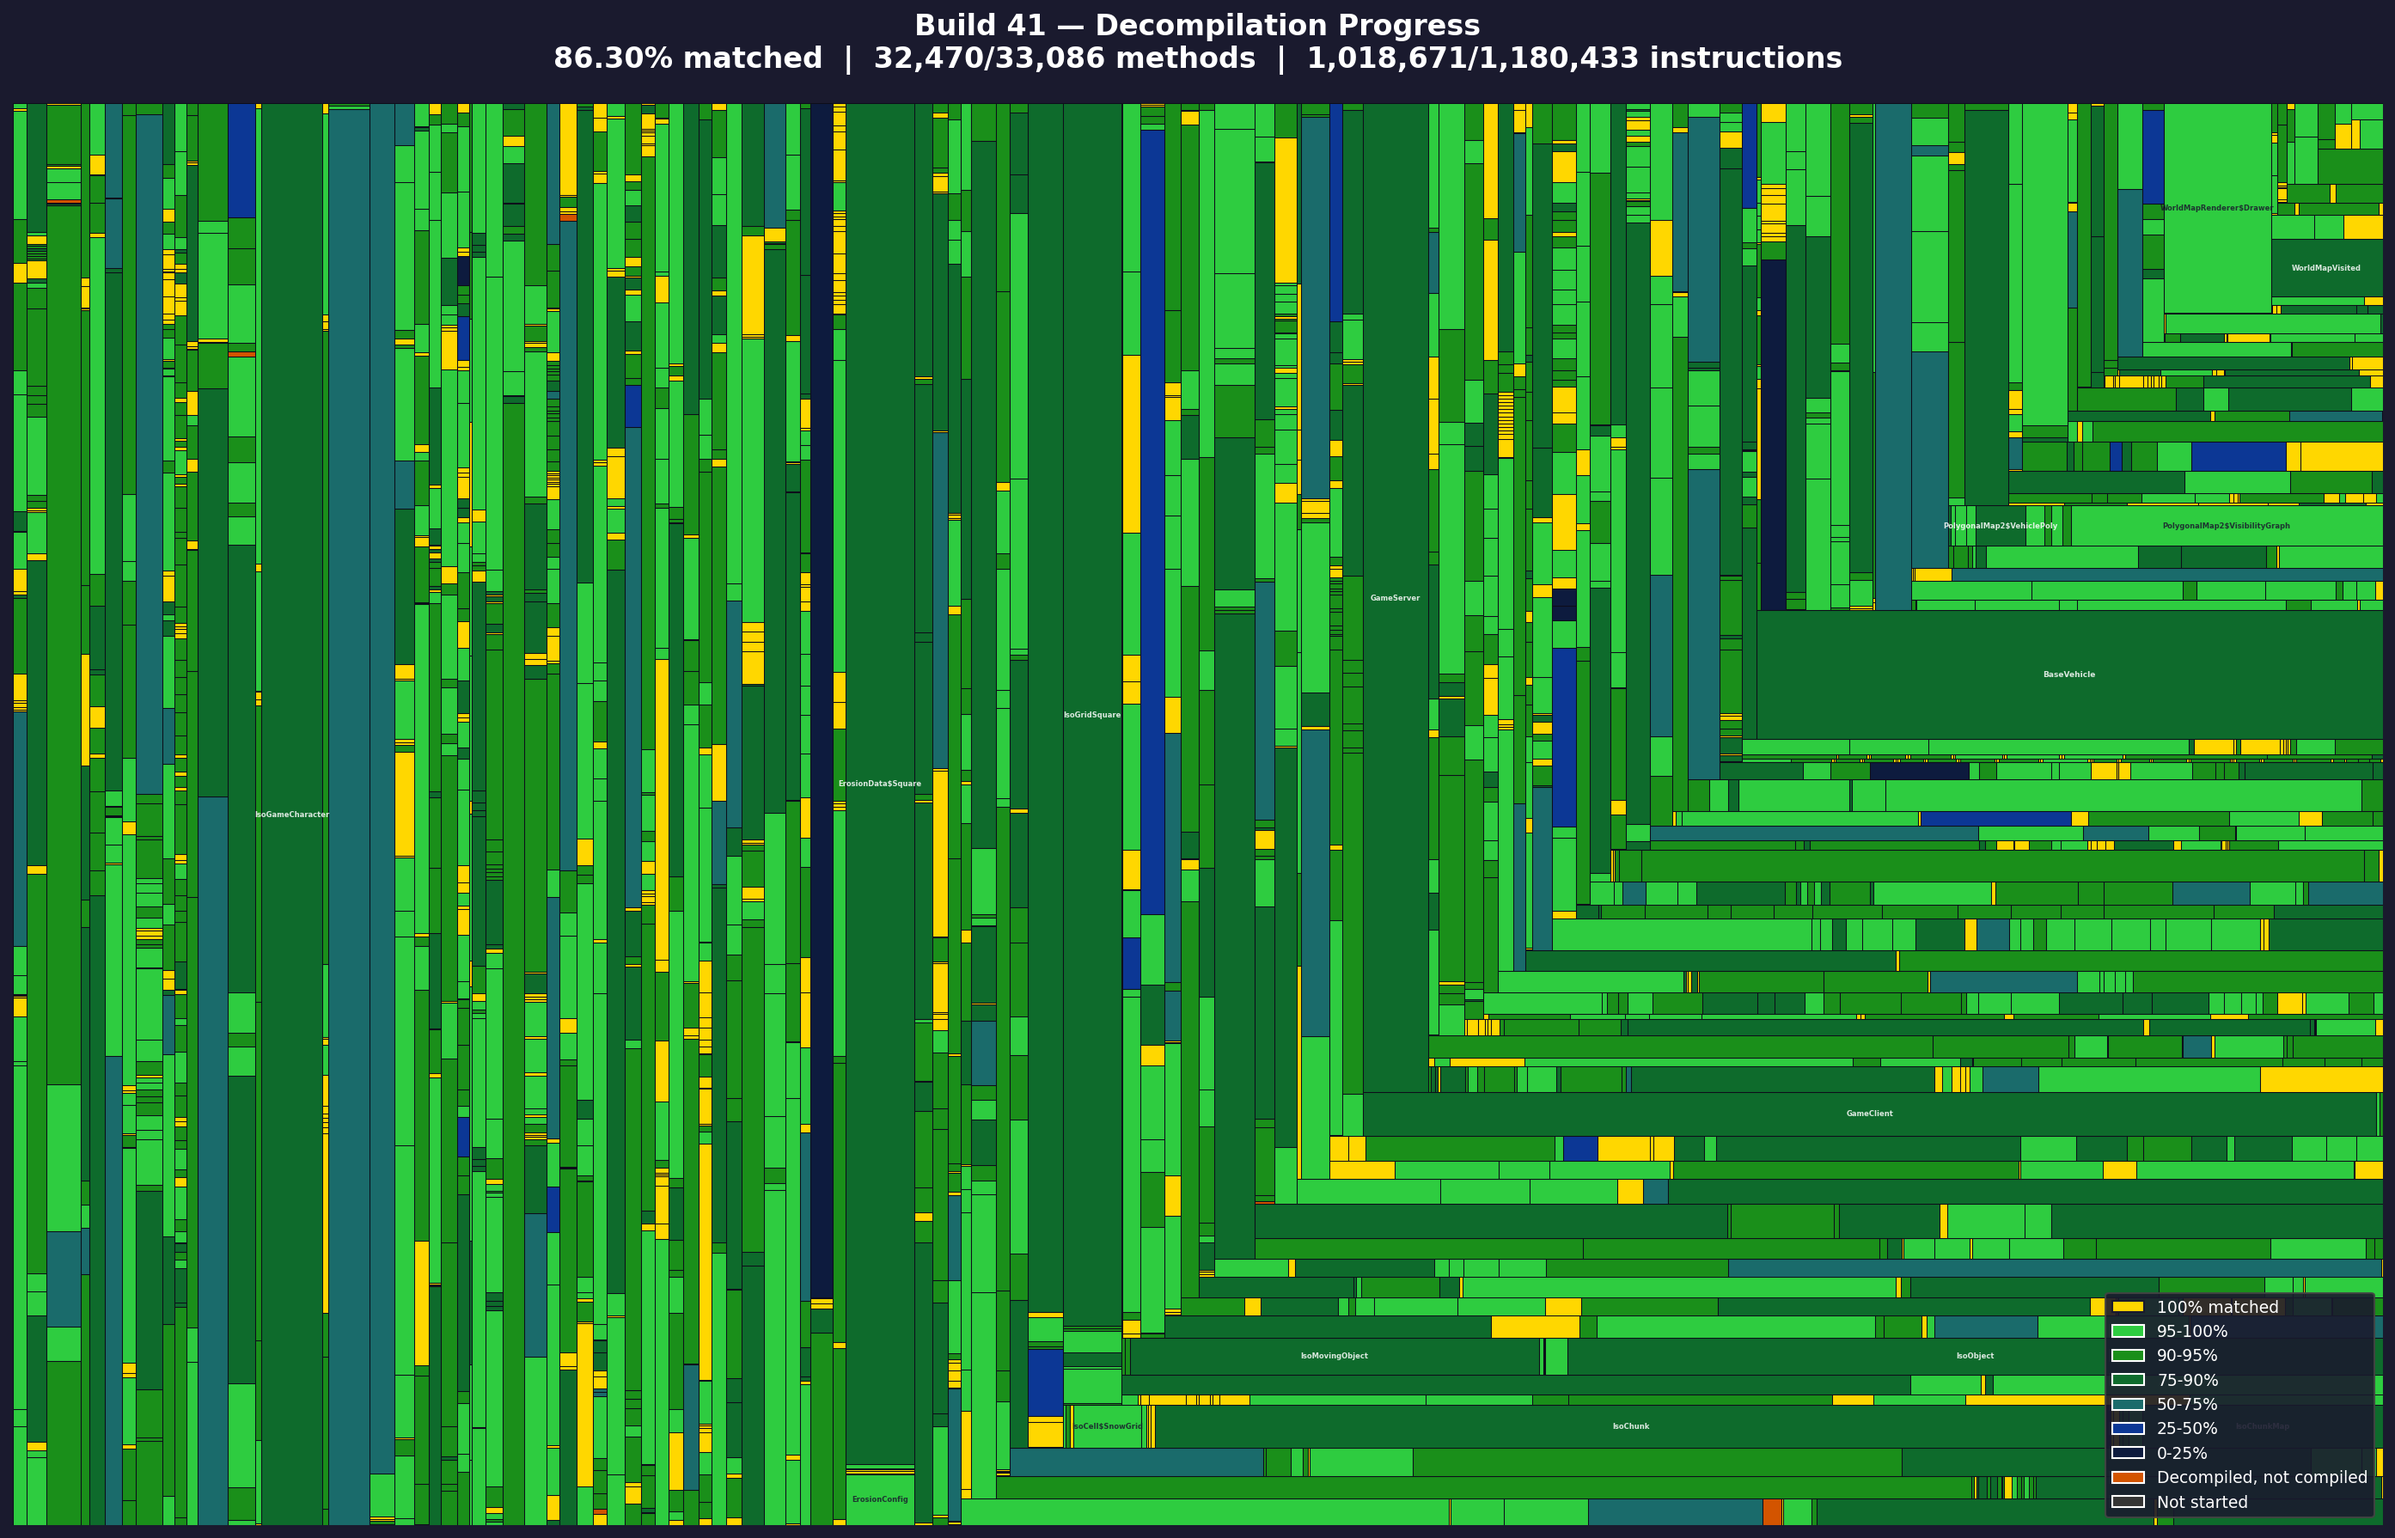
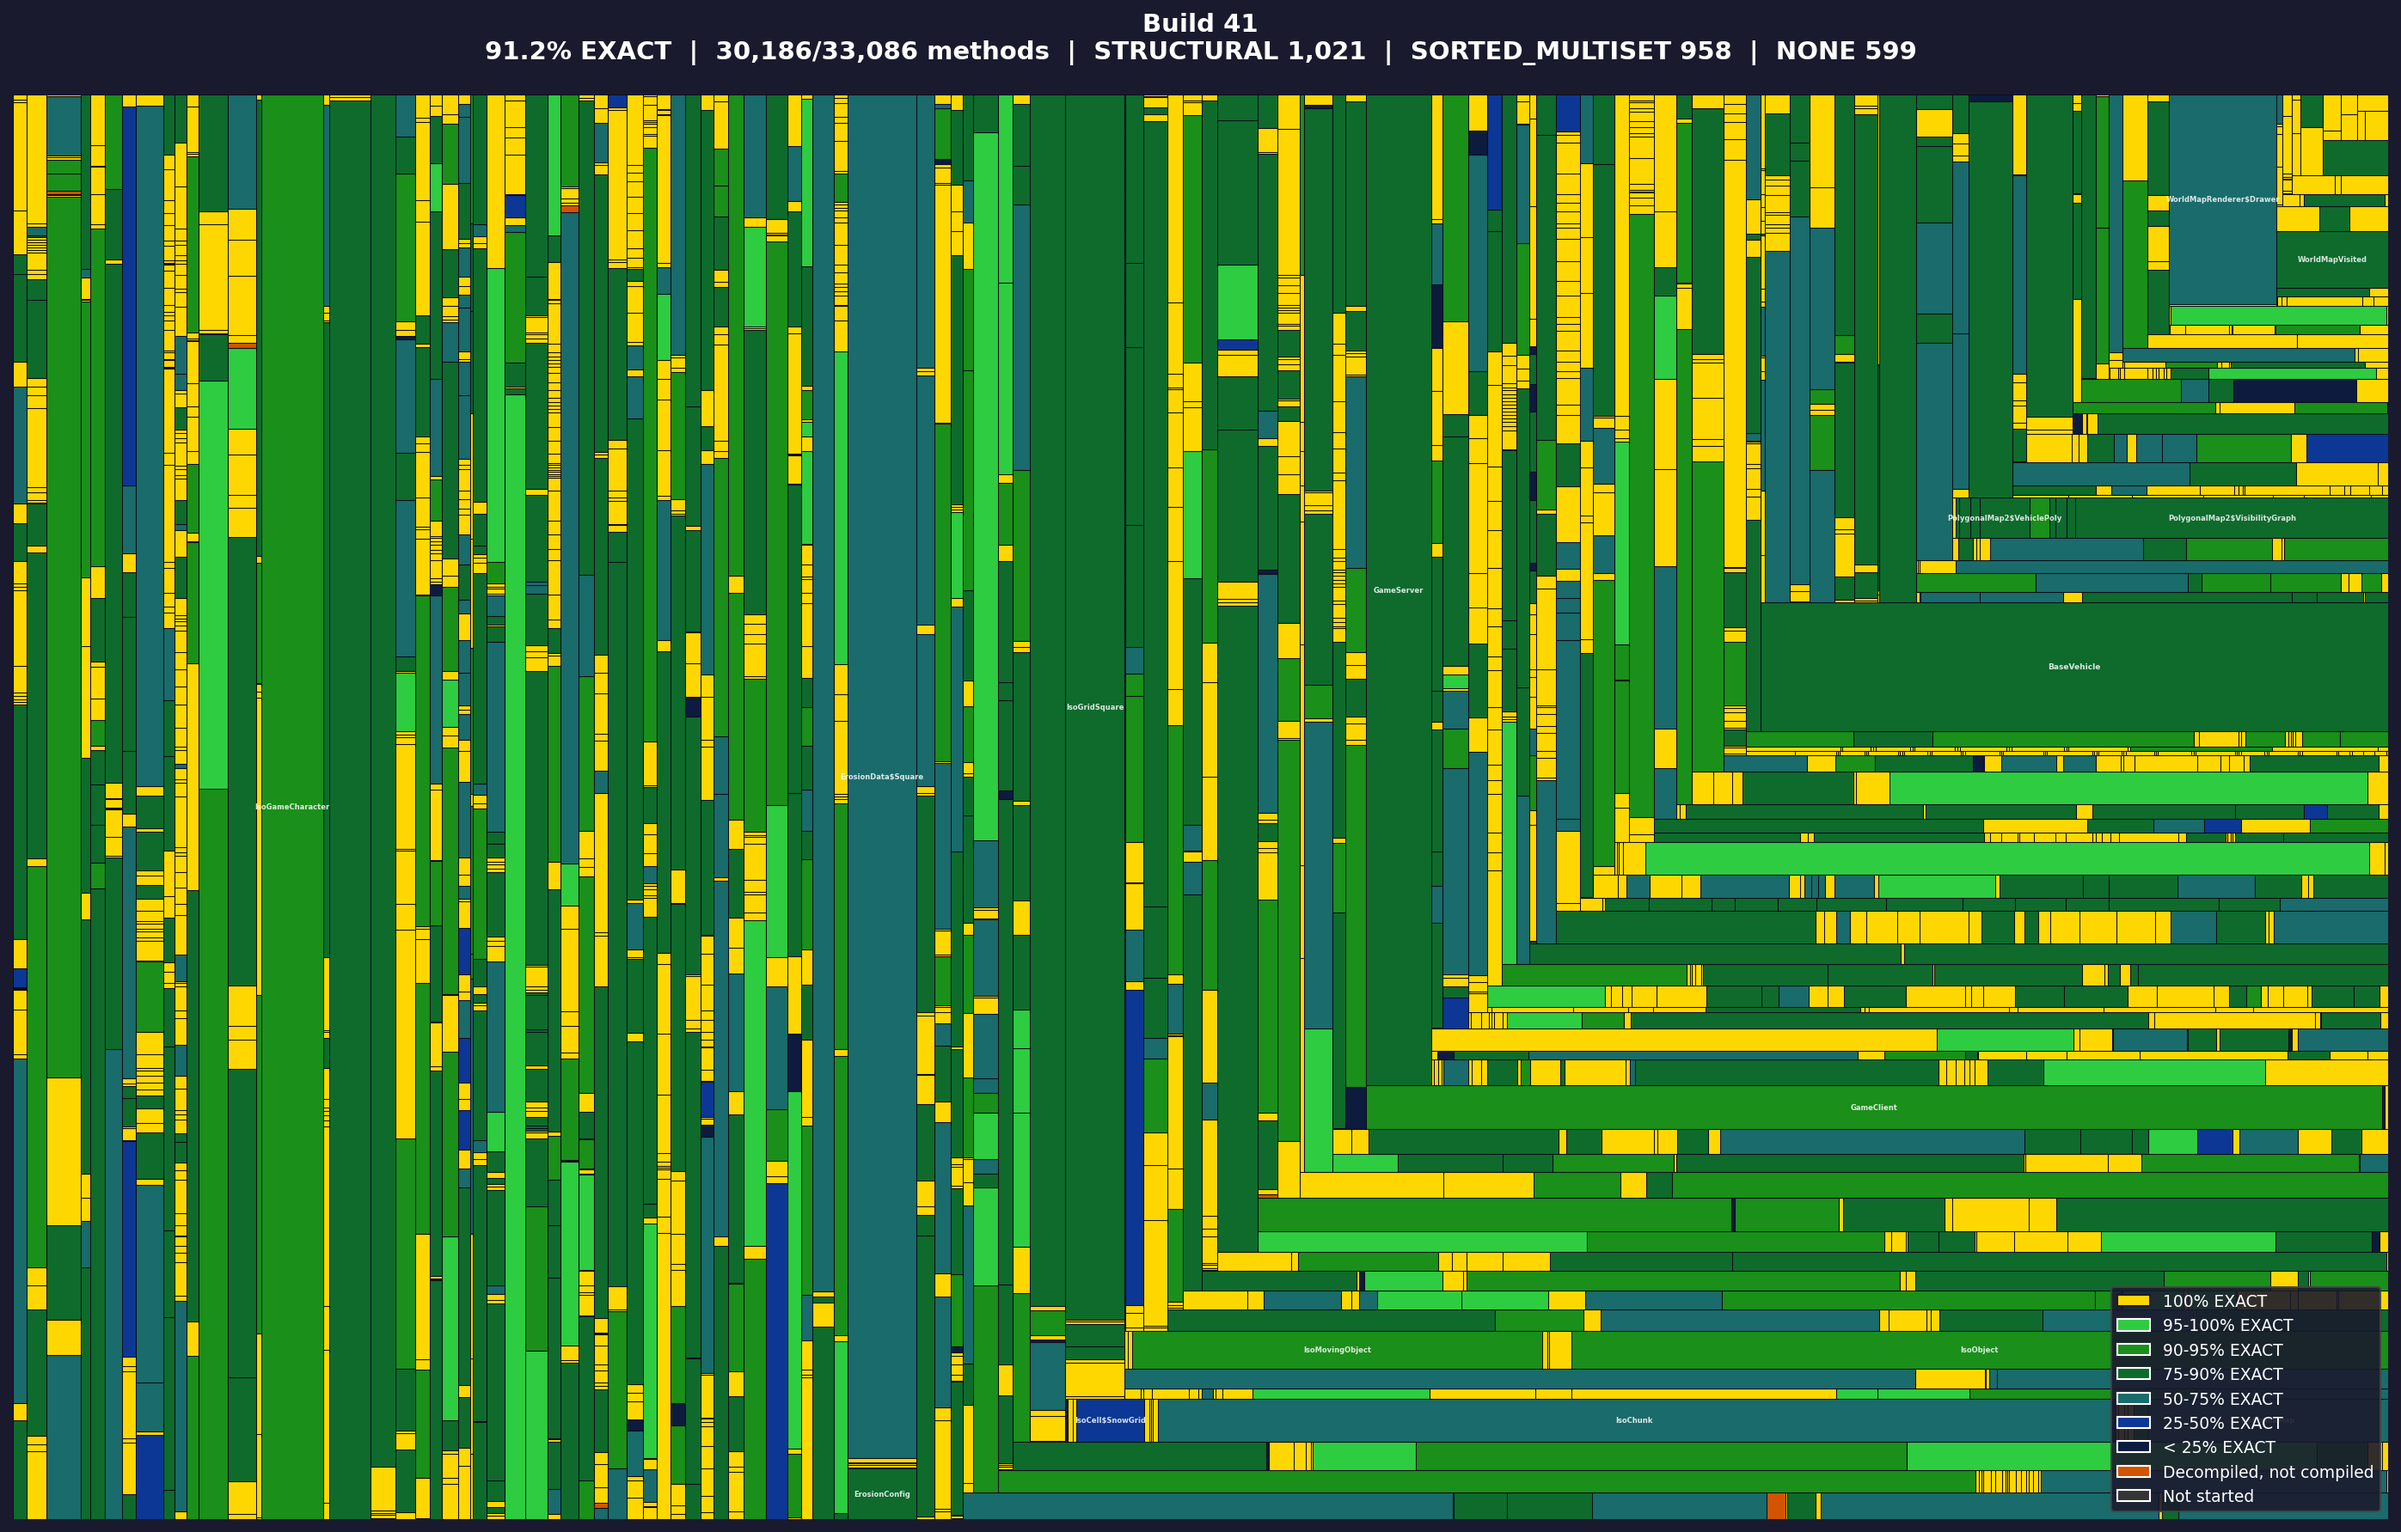
refactor: progress image shows EXACT method % instead of matched %
- Color each class by proportion of methods with EXACT bytecode match
- Legend shows EXACT tiers (100%, 95-100%, 90-95%, etc.)
- Title shows EXACT count, STRUCTURAL, SORTED_MULTISET, NONE counts
- Removes misleading "matched" percentage that could be gamed by
  relaxing comparison thresholds

diff --git a/scripts/generate_progress_image.py b/scripts/generate_progress_image.py
@@ -1,5 +1,5 @@
 #!/usr/bin/env python3
-"""Generate a decomp.dev-style treemap progress image from a verify JSON report."""
+"""Generate a treemap progress image showing EXACT method percentage per class."""
 
 import json
 import sys
@@ -12,41 +12,48 @@ import matplotlib.patches as mpatches
 import squarify
 
 
-# ── Color scheme: clear gradient from gray → red → blue → green → gold ──
-
+# Color by percentage of methods that are EXACT matches
 COLOR_TIERS = [
     # (min_pct, color,     label)
-    (100,      "#FFD700",  "100% matched"),   # gold
-    (95,       "#2ecc40",  "95-100%"),         # bright green
-    (90,       "#1a8f1a",  "90-95%"),          # medium green
-    (75,       "#0e6b2c",  "75-90%"),          # dark green
-    (50,       "#1a6b6b",  "50-75%"),          # teal
-    (25,       "#0c3795",  "25-50%"),          # dark blue
-    (0,        "#0d1b3e",  "0-25%"),            # deep navy
-    (-1,       "#353535",  "Not started"),     # gray (sentinel, never matched by pct)
+    (100,      "#FFD700",  "100% EXACT"),        # gold
+    (95,       "#2ecc40",  "95-100% EXACT"),      # bright green
+    (90,       "#1a8f1a",  "90-95% EXACT"),       # medium green
+    (75,       "#0e6b2c",  "75-90% EXACT"),       # dark green
+    (50,       "#1a6b6b",  "50-75% EXACT"),       # teal
+    (25,       "#0c3795",  "25-50% EXACT"),       # dark blue
+    (0,        "#0d1b3e",  "< 25% EXACT"),        # deep navy
+    (-1,       "#353535",  "Not started"),         # gray
 ]
 
-COLOR_NOT_COMPILED = "#D35400"  # burnt orange for "decompiled but not compiled"
+COLOR_NOT_COMPILED = "#D35400"  # burnt orange
+
+
+def get_exact_pct(unit):
+    """Calculate what percentage of a class's methods are EXACT matches."""
+    total = unit.get("total_methods", 0)
+    if total == 0:
+        return 0
+    # The methods array only contains NON-EXACT methods.
+    # EXACT count = total - len(methods array)
+    non_exact = len(unit.get("methods", []))
+    exact = total - non_exact
+    return 100.0 * exact / total
 
 
 def get_color(unit, source_dir=None):
-    """Color based on match percentage using tiered gradient."""
+    """Color based on EXACT method percentage."""
     status = unit.get("status", "")
 
-    # Class exists in original but not in recompiled output
     if status == "MISSING_RECOMP":
         if source_dir:
             name = unit.get("name", "")
-            # Inner classes share the source file of their outer class
             source_name = name.split("$")[0]
             source_file = Path(source_dir) / (source_name + ".java")
             if not source_file.exists():
-                return "#353535"  # no source, genuinely not started
+                return "#353535"
         return COLOR_NOT_COMPILED
 
-    pct = unit.get("matched_code_percent", 0)
-    if pct is None:
-        pct = 0
+    pct = get_exact_pct(unit)
 
     for min_pct, color, _ in COLOR_TIERS:
         if pct >= min_pct:
@@ -70,6 +77,19 @@ def main():
     measures = report["measures"]
     units = report["units"]
 
+    # Calculate global tier counts
+    total_methods = 0
+    exact_methods = 0
+    tier_counts = {}
+    for unit in units:
+        tm = unit.get("total_methods", 0)
+        total_methods += tm
+        methods = unit.get("methods", [])
+        exact_methods += tm - len(methods)
+        for m in methods:
+            tier = m.get("matchTier", "NONE")
+            tier_counts[tier] = tier_counts.get(tier, 0) + 1
+
     # Prepare data for treemap
     sizes = []
     labels = []
@@ -80,7 +100,6 @@ def main():
         if total_insns == 0:
             continue
         name = unit["name"]
-        # Use short class name for display, strip package prefix
         short_name = name.rsplit("/", 1)[-1] if "/" in name else name
         sizes.append(total_insns)
         labels.append(short_name)
@@ -90,12 +109,10 @@ def main():
         print("No units with instructions found!")
         return
 
-    # Create figure
     fig, ax = plt.subplots(1, 1, figsize=(20, 12))
     fig.patch.set_facecolor("#1a1a2e")
     ax.set_facecolor("#1a1a2e")
 
-    # Normalize sizes for squarify
     normed = squarify.normalize_sizes(sizes, 100, 60)
     rects = squarify.squarify(normed, 0, 0, 100, 60)
 
@@ -107,10 +124,8 @@ def main():
             edgecolor="#0d0d1a",
             linewidth=0.5,
         ))
-        # Only label large enough rectangles
         if dx > 2 and dy > 1.5:
             fontsize = min(8, max(4, min(dx, dy) * 0.8))
-            # Use black text on gold/bright colors, white on dark
             text_color = "#1a1a2e" if color in ("#FFD700", "#2ecc40") else "white"
             ax.text(
                 x + dx / 2, y + dy / 2,
@@ -127,52 +142,26 @@ def main():
     ax.set_aspect("equal")
     ax.axis("off")
 
-    # Title with stats
-    matched_code_pct = measures.get("matched_code_percent", 0)
-    matched_funcs = int(measures.get("matched_methods", 0))
-    total_funcs = int(measures.get("total_methods", 0))
-    total_insns = int(measures.get("total_instructions", 0))
-    matched_insns = int(measures.get("matched_instructions", 0))
-
-    if custom_title:
-        header = custom_title
-    else:
-        header = "Decompilation Progress"
-
-    # Count decompiled classes when source_dir is available
-    decompiled_info = ""
-    if source_dir:
-        decompiled_count = 0
-        total_count = 0
-        for unit in units:
-            total_count += 1
-            status = unit.get("status", "")
-            if status != "MISSING_RECOMP":
-                decompiled_count += 1
-            else:
-                name = unit.get("name", "")
-                source_name = name.split("$")[0]
-                source_file = Path(source_dir) / (source_name + ".java")
-                if source_file.exists():
-                    decompiled_count += 1
-        if total_count > 0 and decompiled_count < total_count:
-            decompiled_pct = 100.0 * decompiled_count / total_count
-            decompiled_info = f"  |  {decompiled_pct:.1f}% decompiled"
+    # Title: show EXACT stats and tier breakdown
+    header = custom_title or "Decompilation Progress"
+    exact_pct = 100.0 * exact_methods / total_methods if total_methods > 0 else 0
+    none_count = tier_counts.get("NONE", 0)
+    structural = tier_counts.get("STRUCTURAL", 0)
+    sorted_ms = tier_counts.get("SORTED_MULTISET", 0)
 
     title = (
         f"{header}\n"
-        f"{matched_code_pct:.2f}% matched  |  "
-        f"{matched_funcs:,}/{total_funcs:,} methods  |  "
-        f"{matched_insns:,}/{total_insns:,} instructions"
-        f"{decompiled_info}"
+        f"{exact_pct:.1f}% EXACT  |  "
+        f"{exact_methods:,}/{total_methods:,} methods  |  "
+        f"STRUCTURAL {structural:,}  |  "
+        f"SORTED_MULTISET {sorted_ms:,}  |  "
+        f"NONE {none_count:,}"
     )
-    ax.set_title(title, color="white", fontsize=16, fontweight="bold", pad=20)
+    ax.set_title(title, color="white", fontsize=14, fontweight="bold", pad=20)
 
-    # Legend - always show all tiers for consistency across images
+    # Legend
     legend_items = []
     for _, color, label in COLOR_TIERS:
-        if color == "#353535":
-            label = "Not started"  # restore display label for sentinel tier
         ec = "#1a1a2e" if color == "#FFD700" else "white"
         legend_items.append(mpatches.Patch(facecolor=color, edgecolor=ec, label=label))
     legend_items.insert(-1, mpatches.Patch(
@@ -192,8 +181,8 @@ def main():
     plt.tight_layout()
     plt.savefig(output_path, dpi=150, bbox_inches="tight", facecolor=fig.get_facecolor())
     plt.close()
-    print(f"  Code: {matched_code_pct:.2f}% matched ({matched_insns:,} / {total_insns:,} instructions)")
-    print(f"  Methods: {matched_funcs:,} / {total_funcs:,}")
+    print(f"  EXACT: {exact_pct:.1f}% ({exact_methods:,}/{total_methods:,} methods)")
+    print(f"  STRUCTURAL: {structural:,}  SORTED_MULTISET: {sorted_ms:,}  NONE: {none_count:,}")
 
 
 if __name__ == "__main__":
